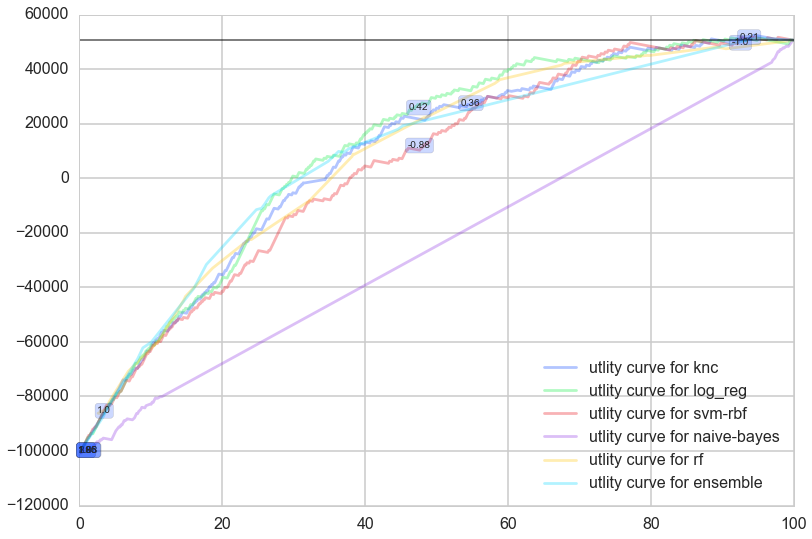
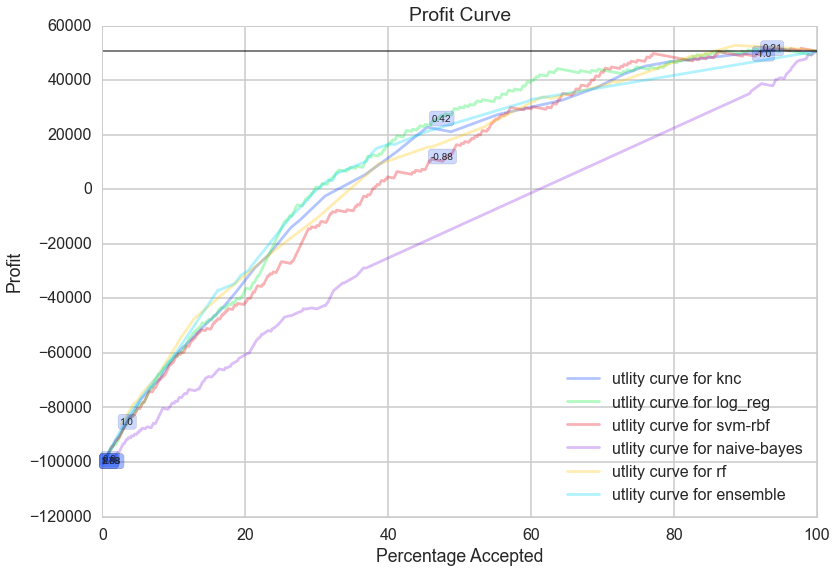
update image

Changed region(s): [[0.0, 0.0, 1.0, 1.0], [0.0924, 0.2968, 0.1232, 0.3562]]

diff --git a/index.html b/index.html
@@ -140,9 +140,9 @@
                       </li>
                       <li>
                         <h1 class="arrow">Not So Fast</h1>
-                        <img src="img/ROC.png" alt="Funding Rounds" class="col-md-6">
-                        <img src="img/Profit.png" alt="Funding Rounds" class="col-md-6">
-                        <p class="col-md-12">Our profit/ROC curves aren't so hot, meaning our predictors aren't accepted some successful companies until our success probability threshold essentially goes to 0... that's not an accurate model. Choosing startups is difficult!</p>
+                        <img src="img/ROC.png" alt="Funding Rounds" class="col-md-5 col-md-offset-1">
+                        <img src="img/Profit.png" alt="Funding Rounds" class="col-md-5">
+                        <p class="col-md-12">Our ROC/profit curves aren't great, meaning our predictors aren't accepting successful companies until our probability threshold essentially goes to 0... that's not an accurate model. Predicting startups is not easy!</p>
                       </li>
                     </ul>
                   </div>
